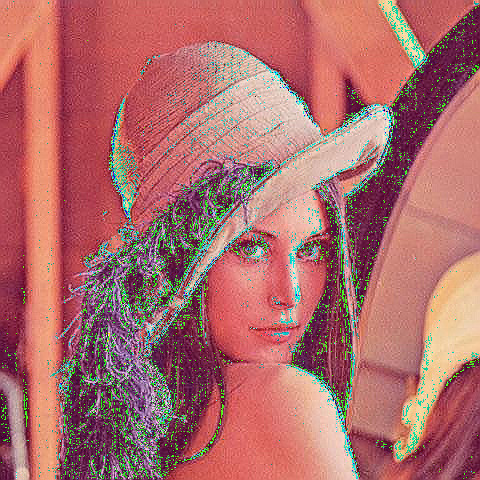
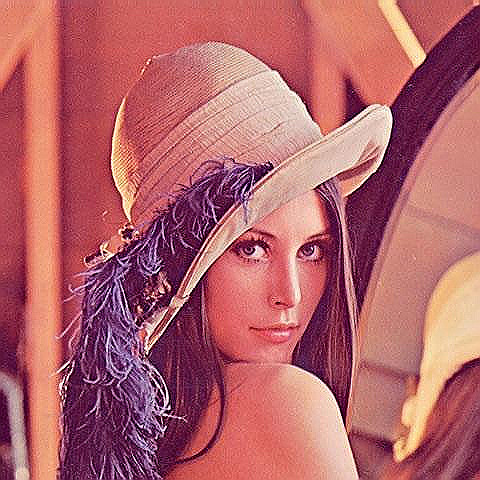
fix overflow

diff --git a/image processing/Filter2D/Filter2D.cpp b/image processing/Filter2D/Filter2D.cpp
@@ -4,18 +4,18 @@
 
 static inline void MAC(float sum[4], sf::Color& c, float coeff)
 {
-	sum[0] += c.r * coeff;
-	sum[1] += c.g * coeff;
-	sum[2] += c.b * coeff;
-	sum[3] += c.a * coeff;
+	sum[0] += static_cast<float>(c.r) * coeff;
+	sum[1] += static_cast<float>(c.g) * coeff;
+	sum[2] += static_cast<float>(c.b) * coeff;
+	sum[3] += static_cast<float>(c.a) * coeff;
 }
 
 static inline void StorePix(float sum[4], sf::Color& c)
 {
-	c.r = static_cast<uint8_t>(sum[0]);
-	c.g = static_cast<uint8_t>(sum[1]);
-	c.b = static_cast<uint8_t>(sum[2]);
-	c.a = static_cast<uint8_t>(sum[3]);
+	c.r = std::clamp(static_cast<int>(sum[0]), 0, 255);
+	c.g = std::clamp(static_cast<int>(sum[1]), 0, 255);
+	c.b = std::clamp(static_cast<int>(sum[2]), 0, 255);
+	c.a = std::clamp(static_cast<int>(sum[3]), 0, 255);
 }
 
 void qlm::Filter2D(const sf::Image& in, sf::Image& out, const qlm::Kernel& kernel, qlm::BORDER border, int border_const)
@@ -49,5 +49,4 @@ void qlm::Filter2D(const sf::Image& in, sf::Image& out, const qlm::Kernel& kerne
 			out.setPixel(x, y, res);
 		}
 	}
-	// TODO : debug the results
 }

diff --git a/image processing/Source.cpp b/image processing/Source.cpp
@@ -20,6 +20,7 @@ int main()
 	k.Set(1, 0, -1); k.Set(1, 1, 5); k.Set(1, 2, -1);
 	k.Set(2, 0, 0); k.Set(2, 1, -1); k.Set(2, 2, 0);
 	
+
 	sf::Image out{in};
 	// do the operation
 	t.start();

diff --git a/image processing/Common/types.h b/image processing/Common/types.h
@@ -44,7 +44,7 @@ namespace qlm
 		}
 		~Kernel()
 		{
-			delete data;
+			delete[] data;
 		}
 	
 		float Get(int x, int y) const
